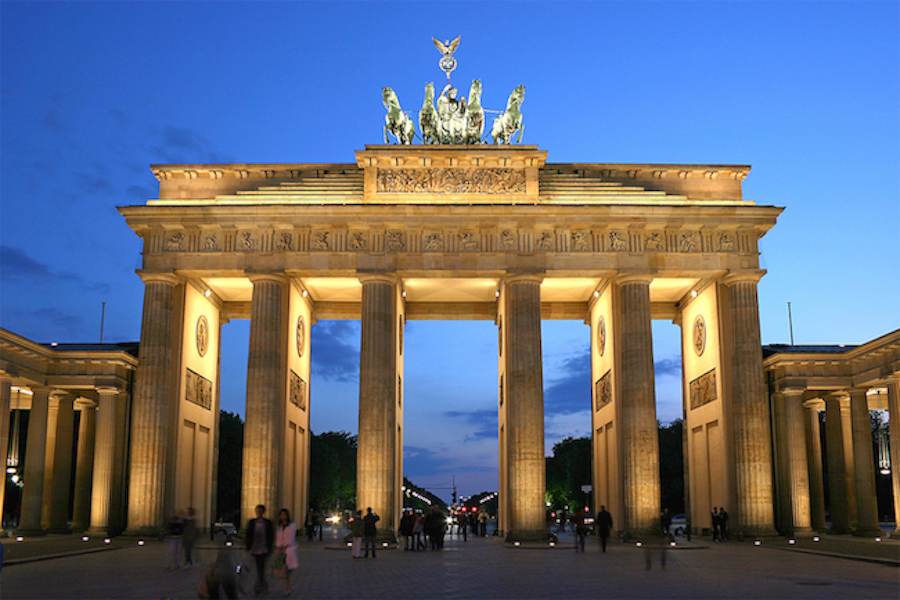
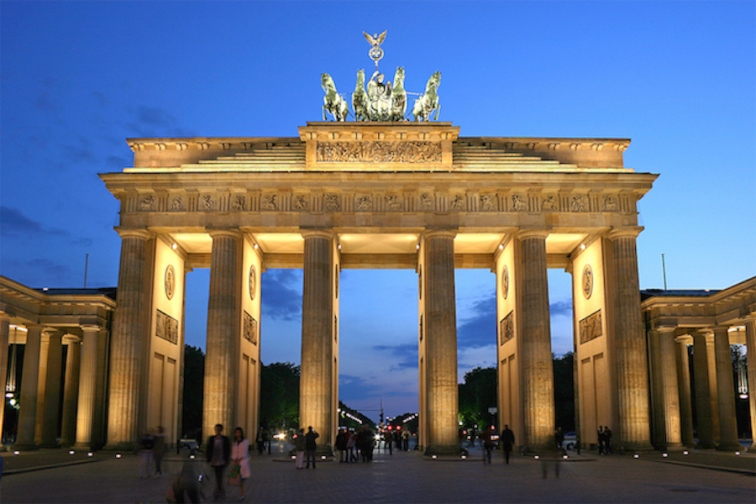
68. Performance optimization: site speed We've compressed & resized images to reduce time load in our page
Resources: http://optimizilla.com/

diff --git a/resources/css/style.css b/resources/css/style.css
@@ -191,8 +191,8 @@ HEADER
 ----------------------------------*/
 
 header {
-    background-image: -webkit-linear-gradient(rgba(0, 0, 0, 0.7), rgba(0, 0, 0, 0.7)), url(img/hero.jpg);
-    background-image: linear-gradient(rgba(0, 0, 0, 0.7), rgba(0, 0, 0, 0.7)), url(img/hero.jpg);
+    background-image: -webkit-linear-gradient(rgba(0, 0, 0, 0.7), rgba(0, 0, 0, 0.7)), url(img/hero-min.jpg);
+    background-image: linear-gradient(rgba(0, 0, 0, 0.7), rgba(0, 0, 0, 0.7)), url(img/hero-min.jpg);
     background-size: cover;
     background-position: center;
     height: 100vh;
@@ -438,8 +438,8 @@ TESTIMONIALS
 ---------------------------------- */
 
 .section-testimonials {
-    background-image: -webkit-linear-gradient(rgba(0, 0, 0, 0.8), rgba(0, 0, 0, 0.8)), url(img/back-customers.jpg);
-    background-image: linear-gradient(rgba(0, 0, 0, 0.8), rgba(0, 0, 0, 0.8)), url(img/back-customers.jpg);
+    background-image: -webkit-linear-gradient(rgba(0, 0, 0, 0.8), rgba(0, 0, 0, 0.8)), url(img/back-customers-min.jpg);
+    background-image: linear-gradient(rgba(0, 0, 0, 0.8), rgba(0, 0, 0, 0.8)), url(img/back-customers-min.jpg);
     background-size: cover;
     color: #fff;
     background-attachment: fixed;

diff --git a/index.html b/index.html
@@ -12,6 +12,7 @@
           <link href="https://fonts.googleapis.com/css?family=Lato:100,300,300i,400" rel="stylesheet">
           <title>Omnifoot</title>
 
+          <!-- http://realfavicongenerator.net/ -->
           <link rel="apple-touch-icon" sizes="180x180" href="resources/favicons/apple-touch-icon.png">
           <link rel="icon" type="image/png" href="resources/favicons/favicon-32x32.png" sizes="32x32">
           <link rel="icon" type="image/png" href="resources/favicons/favicon-16x16.png" sizes="16x16">
